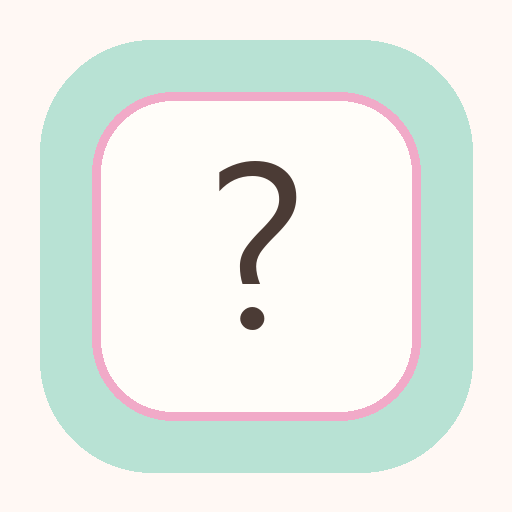
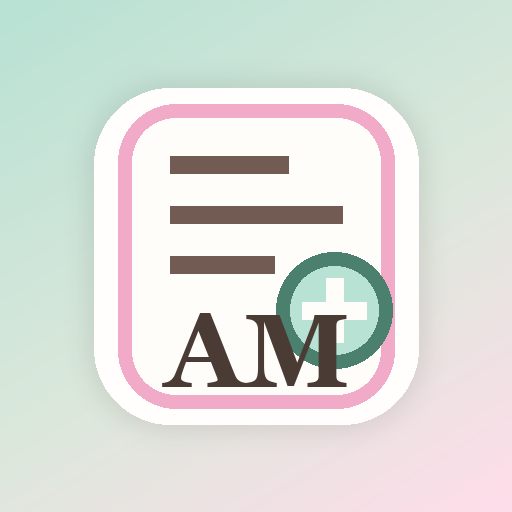
fix

diff --git a/index.html b/index.html
@@ -8,11 +8,11 @@
     <meta name="mobile-web-app-capable" content="yes" />
     <meta name="apple-mobile-web-app-capable" content="yes" />
     <meta name="apple-mobile-web-app-status-bar-style" content="default" />
-    <meta name="apple-mobile-web-app-title" content="醫師國考練習" />
+    <meta name="apple-mobile-web-app-title" content="Ariel's Med" />
     <link rel="manifest" href="%BASE_URL%manifest.webmanifest" />
     <link rel="icon" type="image/svg+xml" href="%BASE_URL%pwa-icon.svg" />
     <link rel="apple-touch-icon" href="%BASE_URL%pwa-icon.svg" />
-    <title>醫師國考練習</title>
+    <title>Ariel's Med</title>
     <script async src="https://www.googletagmanager.com/gtag/js?id=G-4Z7JDB91MJ"></script>
     <script>
       window.dataLayer = window.dataLayer || [];

diff --git a/public/sw.js b/public/sw.js
@@ -1,4 +1,4 @@
-const CACHE_NAME = "exam-page-med-v2";
+const CACHE_NAME = "exam-page-med-v3";
 const STATIC_ASSETS = [
   "./",
   "./index.html",